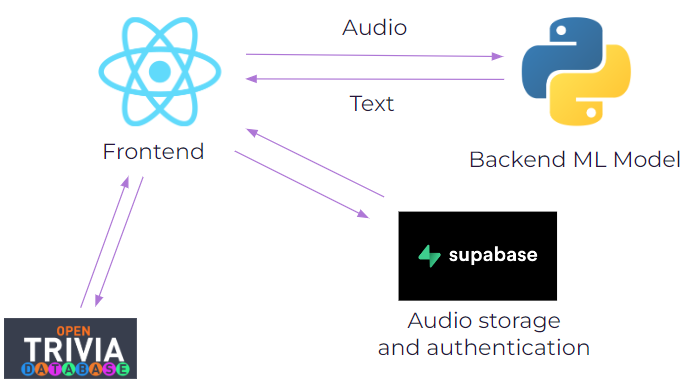
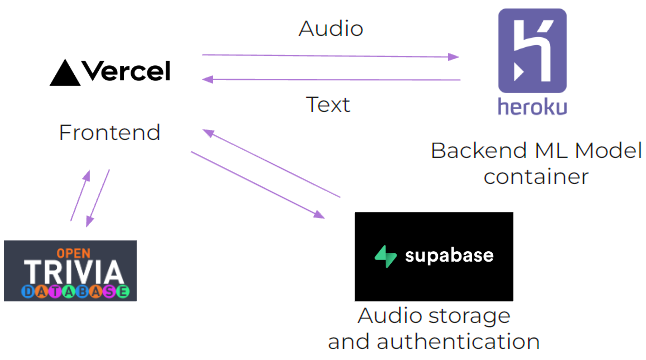
readme

diff --git a/README.md b/README.md
@@ -86,7 +86,7 @@ Database : Supabase <br />
 Deployment : Heroku, Vercel <br />
 Questions Database : Open Trivia Database <br />
 
-![alt text](/images/architecture.png "Architecture")
+![alt text](/images/architecture.PNG "Architecture")
 
 ## Data Collection
 
